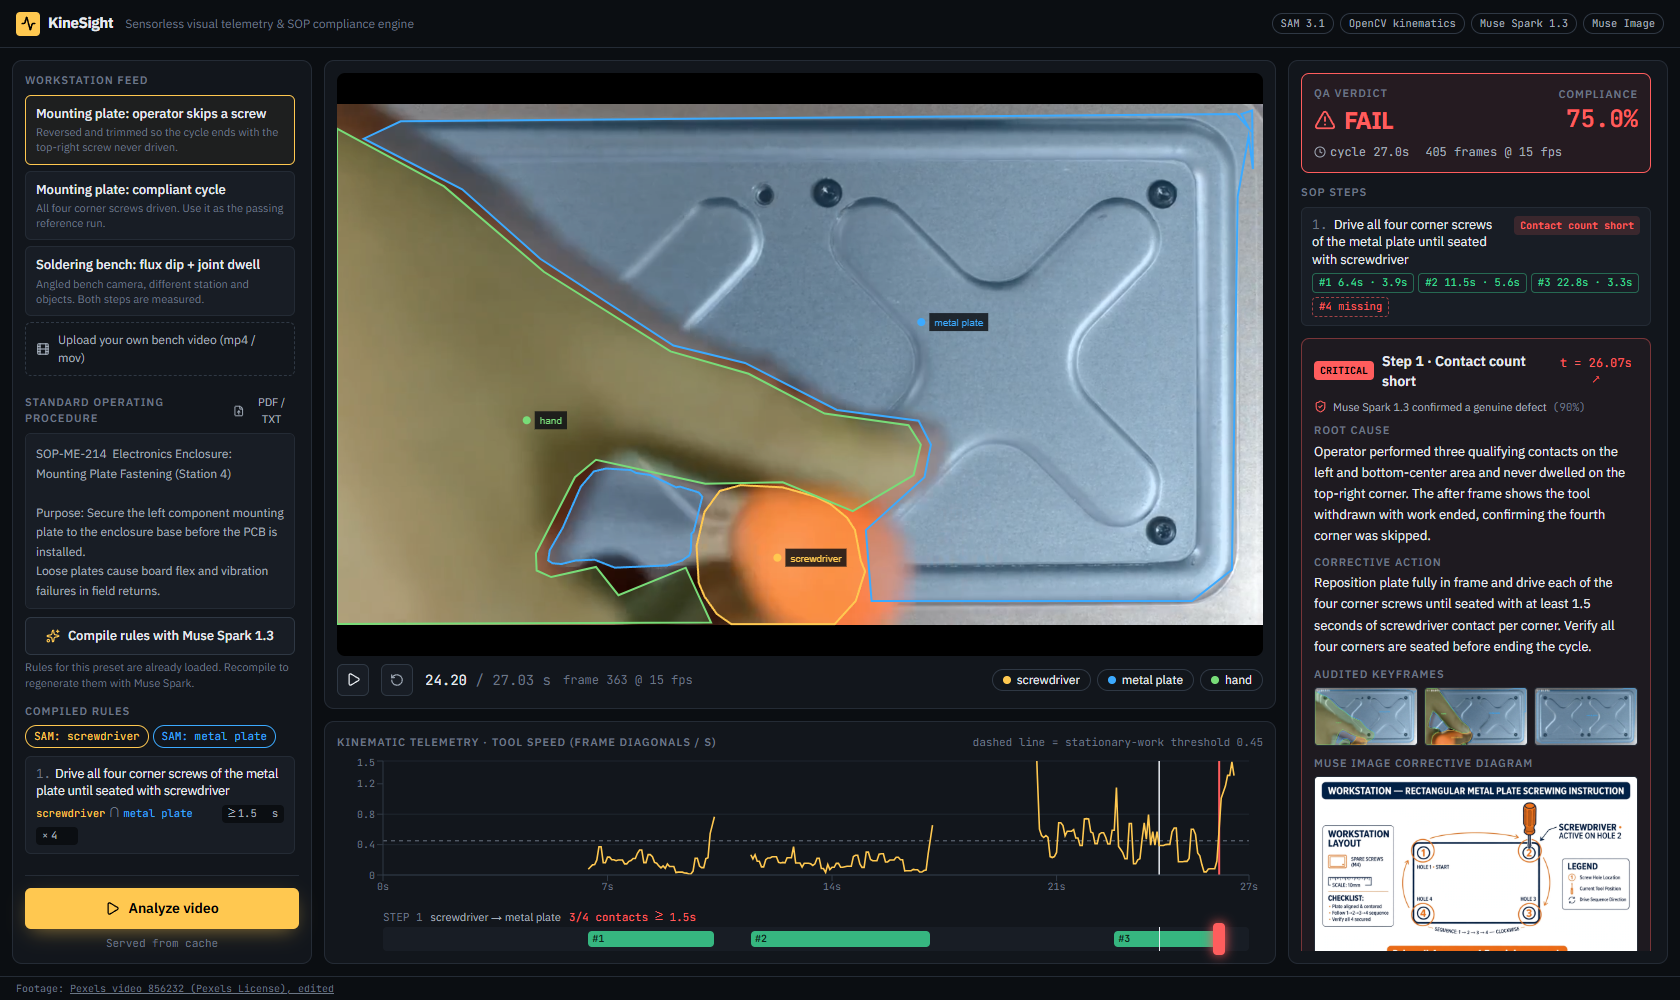
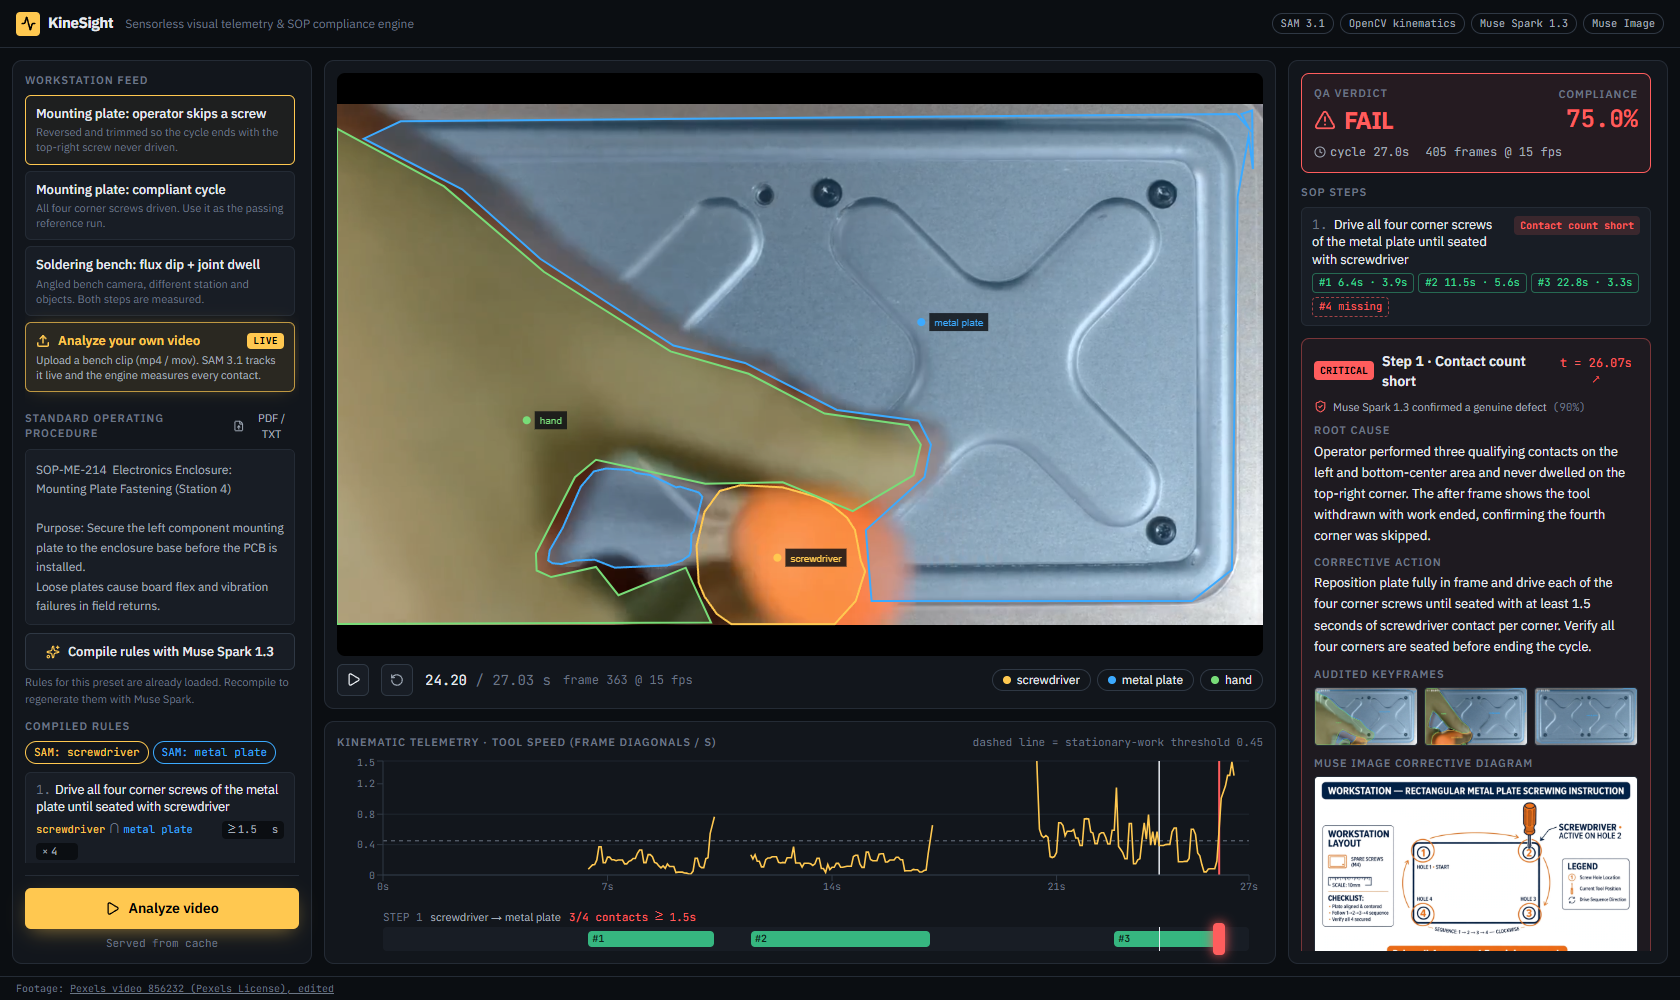
Highlight the upload card

Changed region(s): [[0.0, 0.31, 0.1857, 0.837]]

diff --git a/frontend/src/components/SopEditorPanel.tsx b/frontend/src/components/SopEditorPanel.tsx
@@ -1,6 +1,6 @@
 "use client";
 
-import { FileUp, Film, Loader2, Play, Sparkles, X } from "lucide-react";
+import { FileUp, Loader2, Play, Sparkles, Upload, X } from "lucide-react";
 import { useRef } from "react";
 import { colorFor } from "@/lib/api";
 import type { CompiledSop, Limits, Preset, SopStep } from "@/lib/types";
@@ -64,12 +64,22 @@ export default function SopEditorPanel(p: Props) {
             ) : (
               <button
                 onClick={() => videoFile.current?.click()}
-                className={`flex w-full items-center gap-2 rounded-md border border-dashed px-2.5 py-2 text-left text-[12px] transition ${
-                  p.upload ? "border-accent text-ink" : "border-line-2 text-ink-2 hover:border-ink-3"
+                className={`w-full rounded-md border px-2.5 py-2 text-left shadow-[0_0_18px_-8px_rgba(255,200,80,0.6)] transition hover:border-accent hover:bg-accent/15 ${
+                  p.upload ? "border-accent bg-accent/15" : "border-accent/70 bg-accent/10"
                 }`}
               >
-                <Film size={14} />
-                {p.upload ? p.upload.name : "Upload your own bench video (mp4 / mov)"}
+                <div className="flex min-w-0 items-center gap-2 text-[13px] font-semibold text-accent">
+                  <Upload size={14} strokeWidth={2.5} className="shrink-0" />
+                  <span className="truncate">{p.upload ? p.upload.name : "Analyze your own video"}</span>
+                  <span className="num ml-auto shrink-0 rounded bg-accent px-1.5 py-px text-[9.5px] font-bold tracking-wider text-black">
+                    LIVE
+                  </span>
+                </div>
+                <div className="mt-0.5 text-[11px] leading-snug text-ink-2">
+                  {p.upload
+                    ? "Loaded. Check the rules below, then press Analyze video."
+                    : "Upload a bench clip (mp4 / mov). SAM 3.1 tracks it live and the engine measures every contact."}
+                </div>
               </button>
             )}
             <input

diff --git a/README.md b/README.md
@@ -182,7 +182,7 @@ The layout adapts to the screen:
 ### Step 1: choose footage
 
 - **Presets.** Click one of the three cards. Its video, SOP and compiled rules load together.
-- **Your own clip.** Click **Upload your own bench video (mp4 / mov)** and pick a file.
+- **Your own clip.** Click **Analyze your own video** (highlighted, with a LIVE badge) and pick a file.
   - On the hosted demo, clips are limited to 20 s and 50 MB. The note under the button shows how many live analyses are left today.
   - Running it yourself, the only limits are the ones you set (see [Configuration](#configuration)).
 
